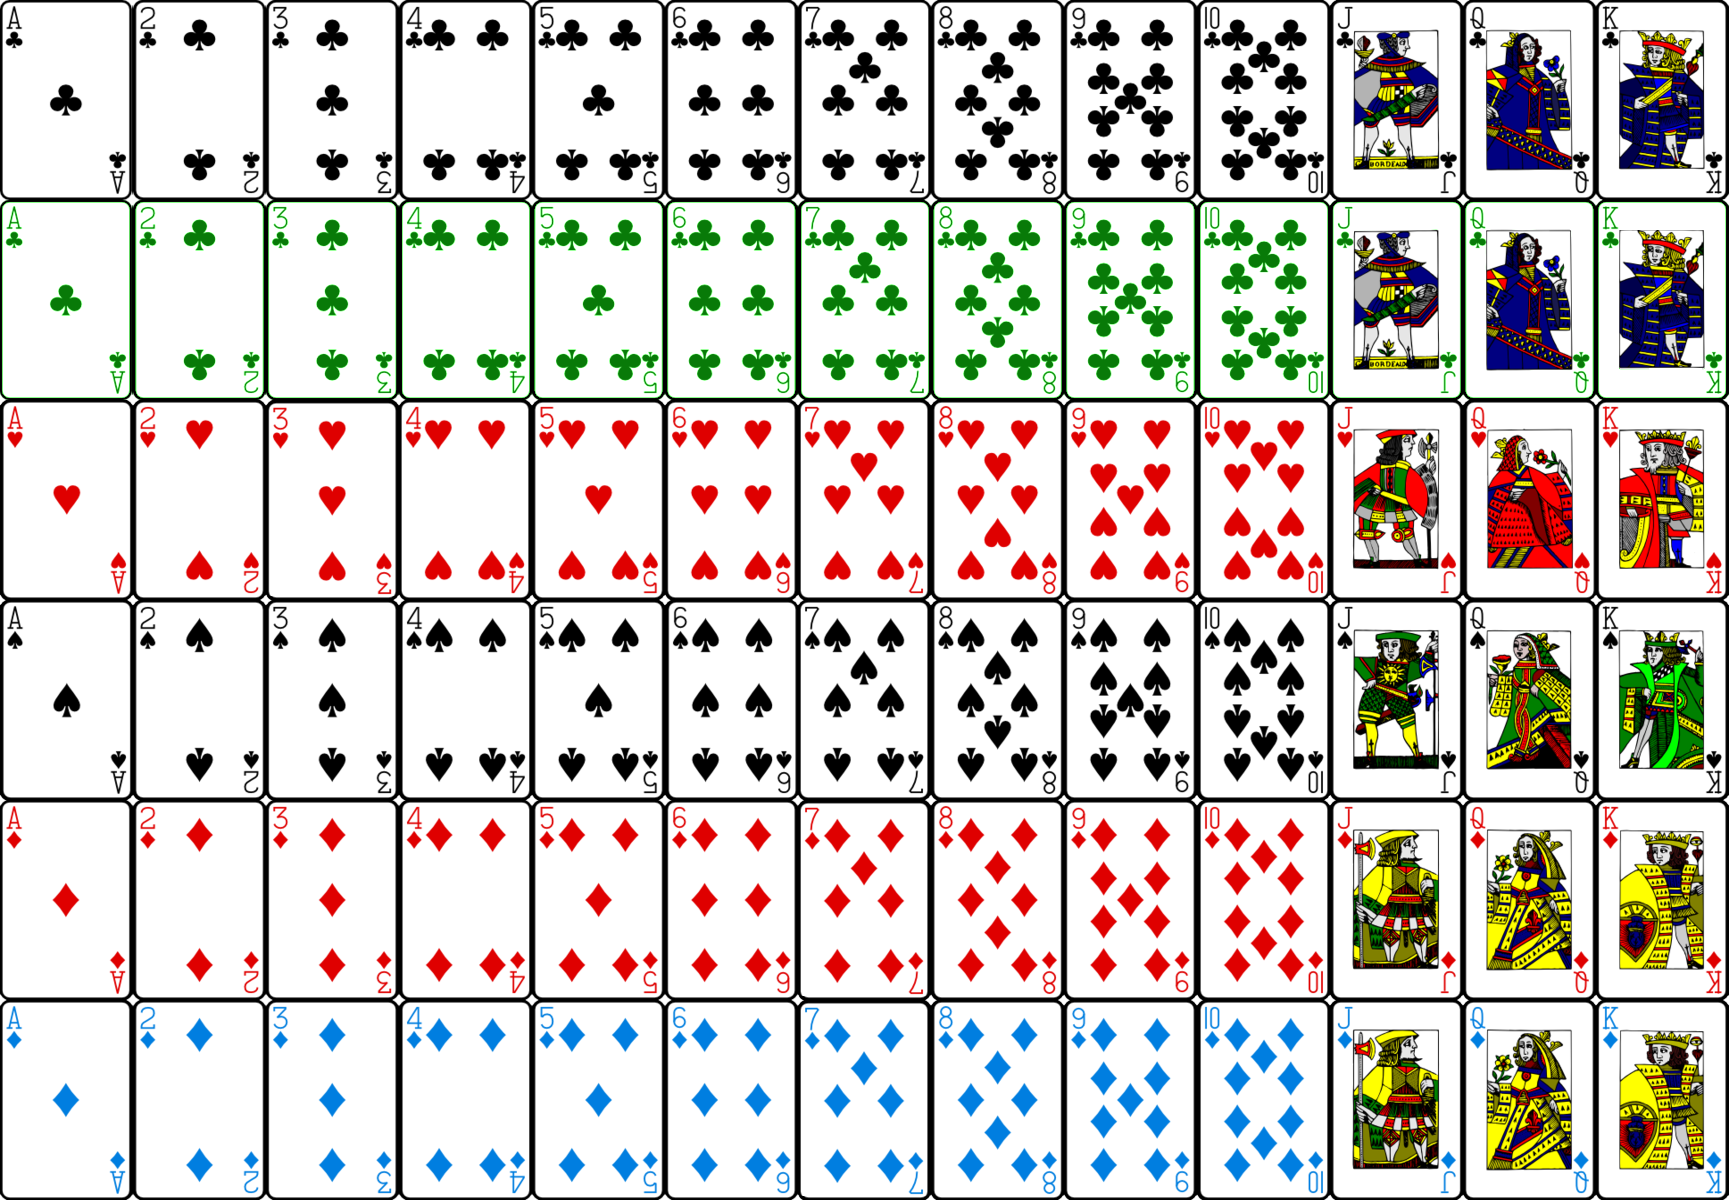
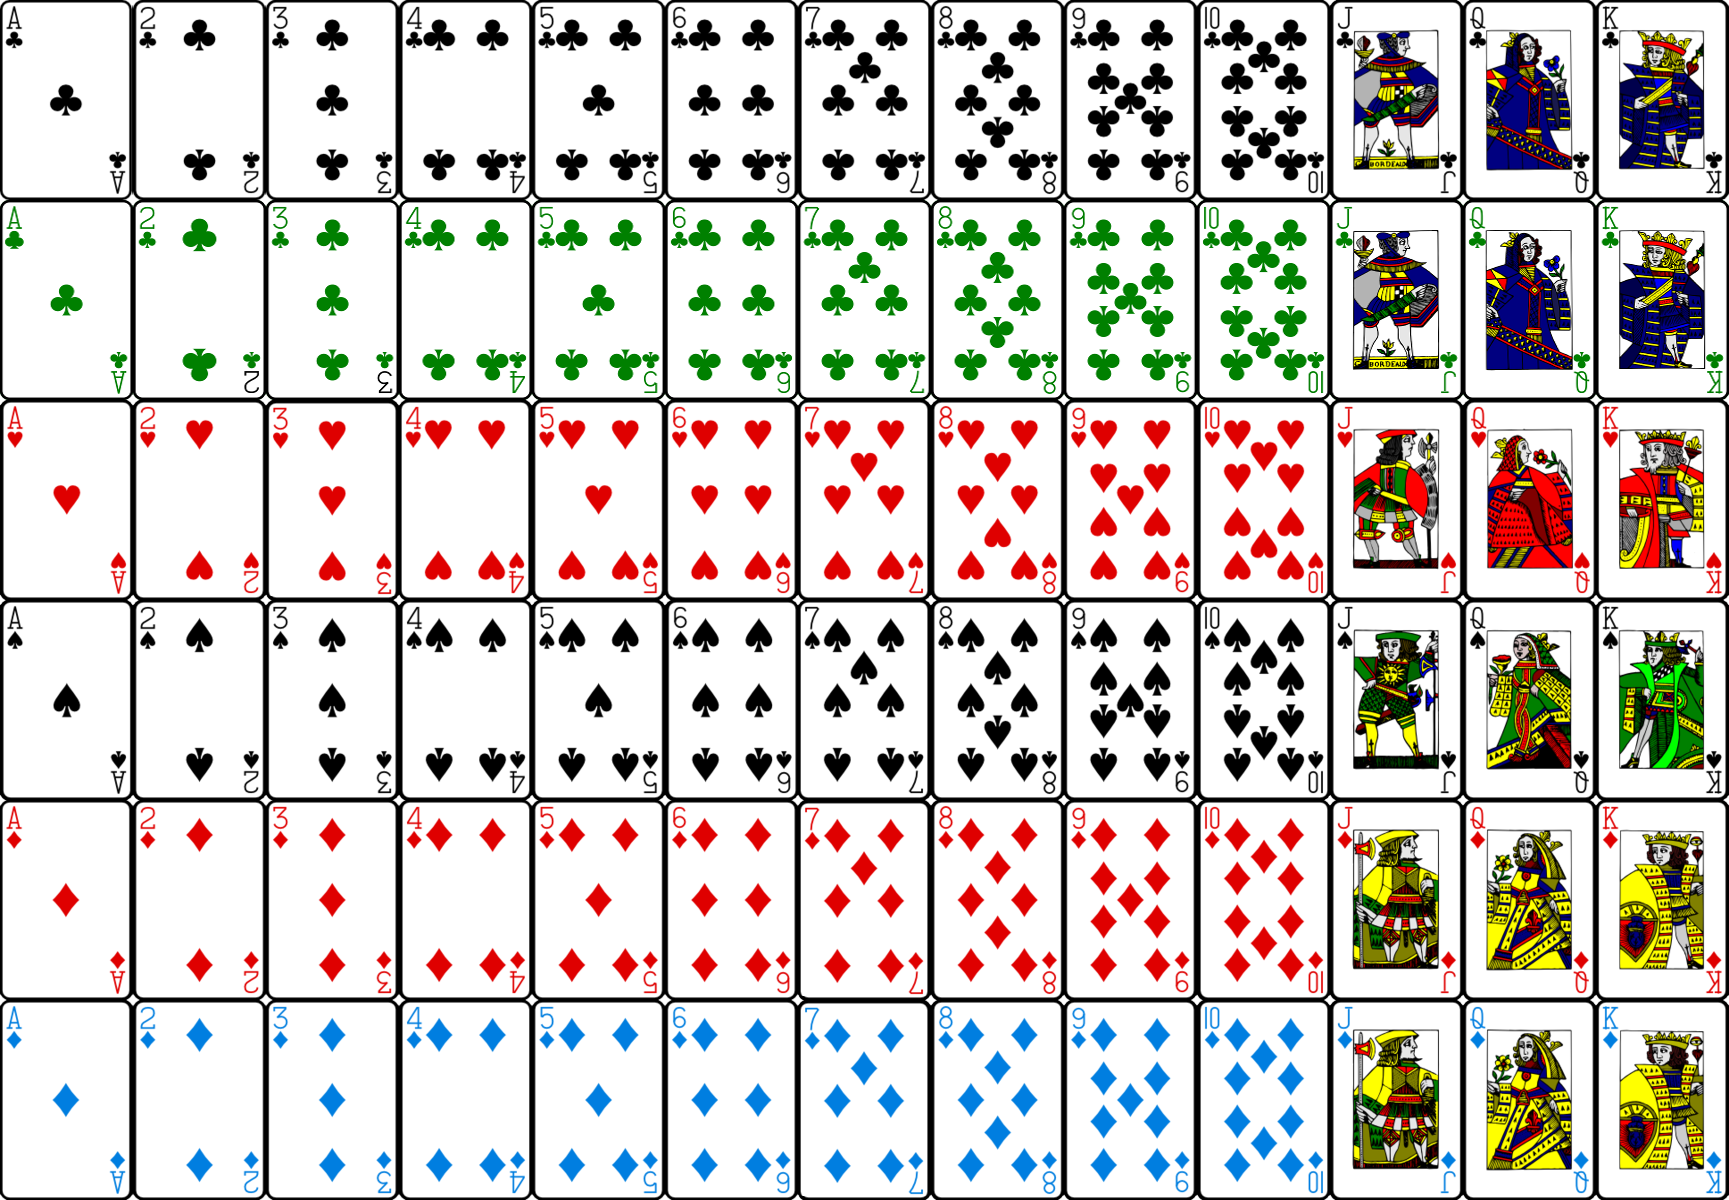
another new card theme

diff --git a/app/src/main/java/de/tobiasbielefeld/solitaire/dialogs/CardDialogPreference.java b/app/src/main/java/de/tobiasbielefeld/solitaire/dialogs/CardDialogPreference.java
@@ -59,8 +59,9 @@ public class CardDialogPreference extends DialogPreference implements View.OnCli
         linearLayouts[2] = (LinearLayout) view.findViewById(R.id.settingsLinearLayoutCardsAbstract);
         linearLayouts[3] = (LinearLayout) view.findViewById(R.id.settingsLinearLayoutCardsSimple);
         linearLayouts[4] = (LinearLayout) view.findViewById(R.id.settingsLinearLayoutCardsModern);
-        linearLayouts[5] = (LinearLayout) view.findViewById(R.id.settingsLinearLayoutCardsDark);
-        linearLayouts[6] = (LinearLayout) view.findViewById(R.id.settingsLinearLayoutCardsPoker);
+        linearLayouts[5] = (LinearLayout) view.findViewById(R.id.settingsLinearLayoutCardsOxygenDark);
+        linearLayouts[6] = (LinearLayout) view.findViewById(R.id.settingsLinearLayoutCardsOxygenLight);
+        linearLayouts[7] = (LinearLayout) view.findViewById(R.id.settingsLinearLayoutCardsPoker);
 
         for (int i = 0; i < NUMBER_OF_CARD_THEMES; i++) {
             linearLayouts[i].setOnClickListener(this);
@@ -90,11 +91,14 @@ public class CardDialogPreference extends DialogPreference implements View.OnCli
             case R.id.settingsLinearLayoutCardsModern:
                 choice = 5;
                 break;
-            case R.id.settingsLinearLayoutCardsDark:
+            case R.id.settingsLinearLayoutCardsOxygenDark:
                 choice = 6;
                 break;
-            case R.id.settingsLinearLayoutCardsPoker:
+            case R.id.settingsLinearLayoutCardsOxygenLight:
                 choice = 7;
+                break;
+            case R.id.settingsLinearLayoutCardsPoker:
+                choice = 8;
                 break;
 
         }

diff --git a/app/src/main/java/de/tobiasbielefeld/solitaire/helper/Bitmaps.java b/app/src/main/java/de/tobiasbielefeld/solitaire/helper/Bitmaps.java
@@ -92,9 +92,12 @@ public class Bitmaps {
                     resID = R.drawable.cards_modern;
                     break;
                 case 6:
-                    resID = R.drawable.cards_dark;
+                    resID = R.drawable.cards_oxygen_dark;
                     break;
                 case 7:
+                    resID = R.drawable.cards_oxygen_light;
+                    break;
+                case 8:
                     resID = R.drawable.cards_poker;
                     break;
             }
@@ -122,7 +125,7 @@ public class Bitmaps {
 
         if (cardPreview == null) {
             cardPreview = BitmapFactory.decodeResource(res, R.drawable.card_previews);
-            cardPreviewWidth = cardPreview.getWidth() / 7;
+            cardPreviewWidth = cardPreview.getWidth() / 8;
             cardPreviewHeight = cardPreview.getHeight() / 2;
         }
 
@@ -133,7 +136,7 @@ public class Bitmaps {
 
         if (cardPreview2 == null) {
             cardPreview2 = BitmapFactory.decodeResource(res, R.drawable.card_previews_2);
-            cardPreview2Width = cardPreview2.getWidth() / 7;
+            cardPreview2Width = cardPreview2.getWidth() / 8;
             cardPreview2Height = cardPreview2.getHeight() / 2;
         }
 

diff --git a/app/src/main/java/de/tobiasbielefeld/solitaire/ui/settings/Settings.java b/app/src/main/java/de/tobiasbielefeld/solitaire/ui/settings/Settings.java
@@ -263,12 +263,16 @@ public class Settings extends AppCompatPreferenceActivity implements SharedPrefe
                 cardPreview = bitmaps.getCardPreview2(4, row);
                 break;
             case 6:
-                text = getString(R.string.settings_dark);
+                text = getString(R.string.settings_oxygen_dark);
                 cardPreview = bitmaps.getCardPreview2(5, row);
                 break;
             case 7:
-                text = getString(R.string.settings_poker);
+                text = getString(R.string.settings_oxygen_light);
                 cardPreview = bitmaps.getCardPreview2(6, row);
+                break;
+            case 8:
+                text = getString(R.string.settings_poker);
+                cardPreview = bitmaps.getCardPreview2(7, row);
                 break;
         }
 
